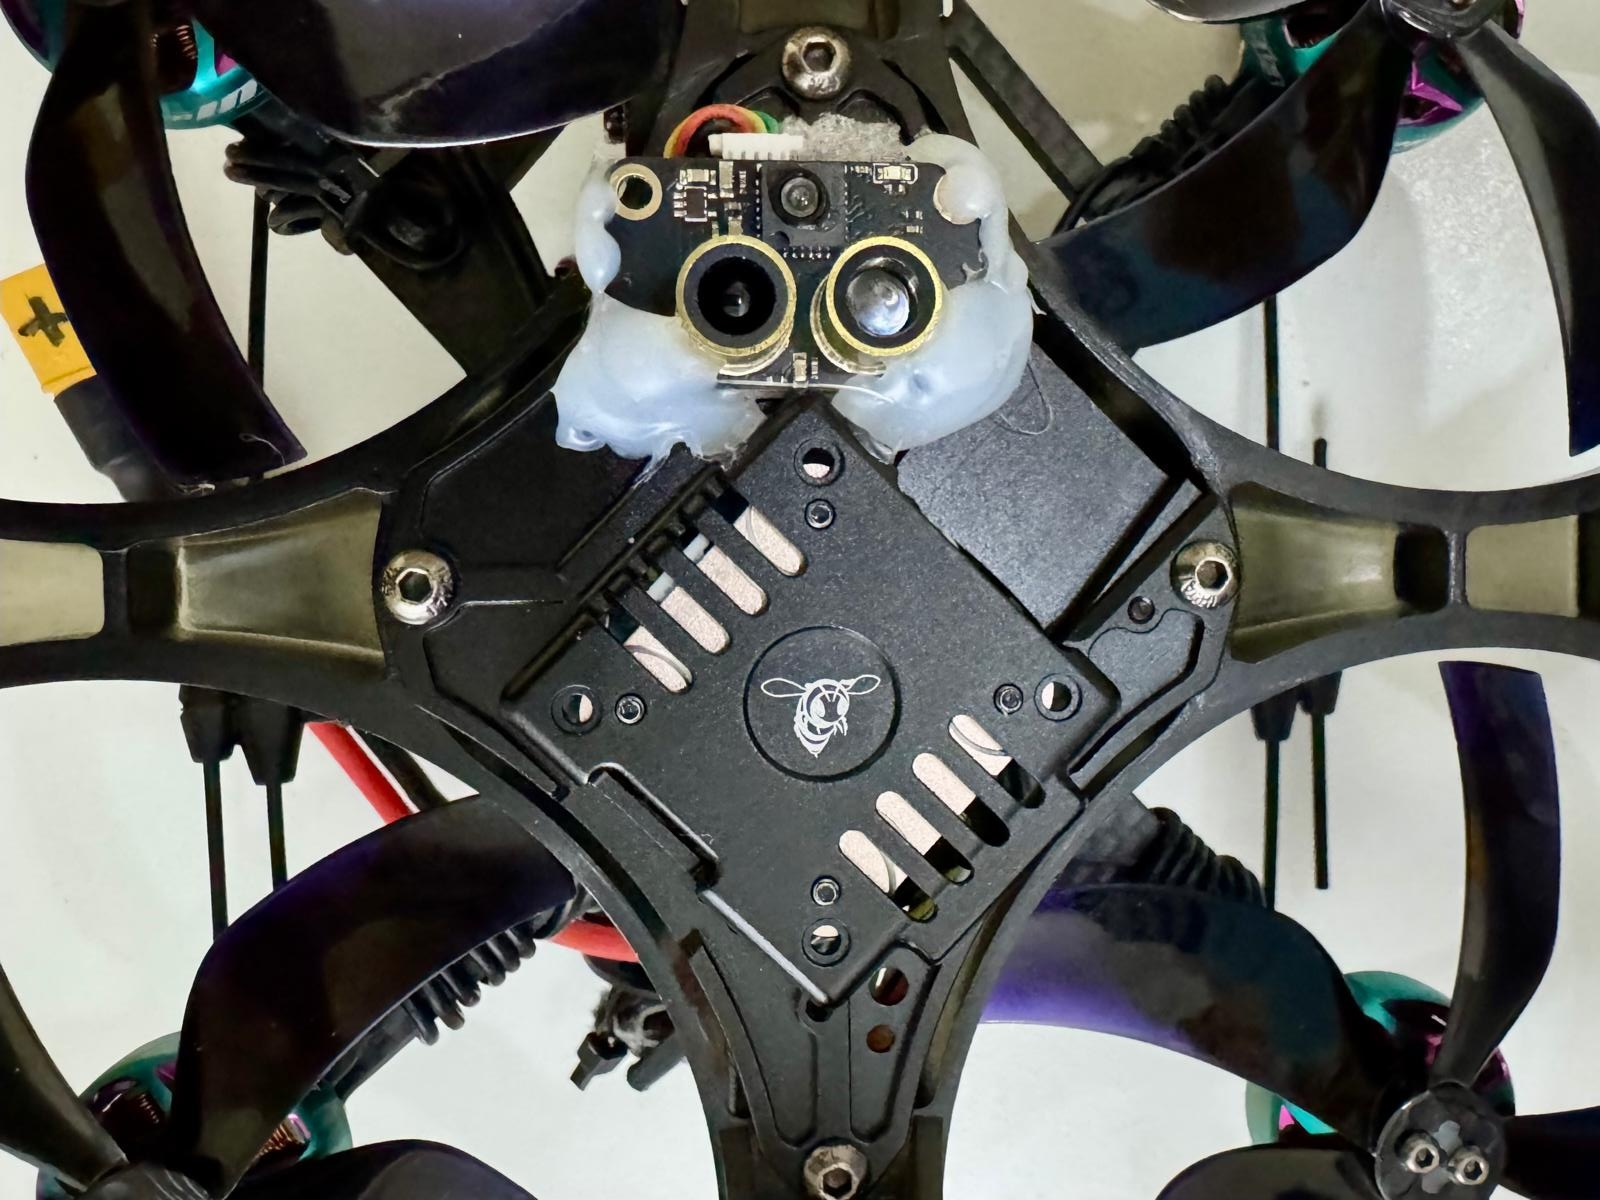
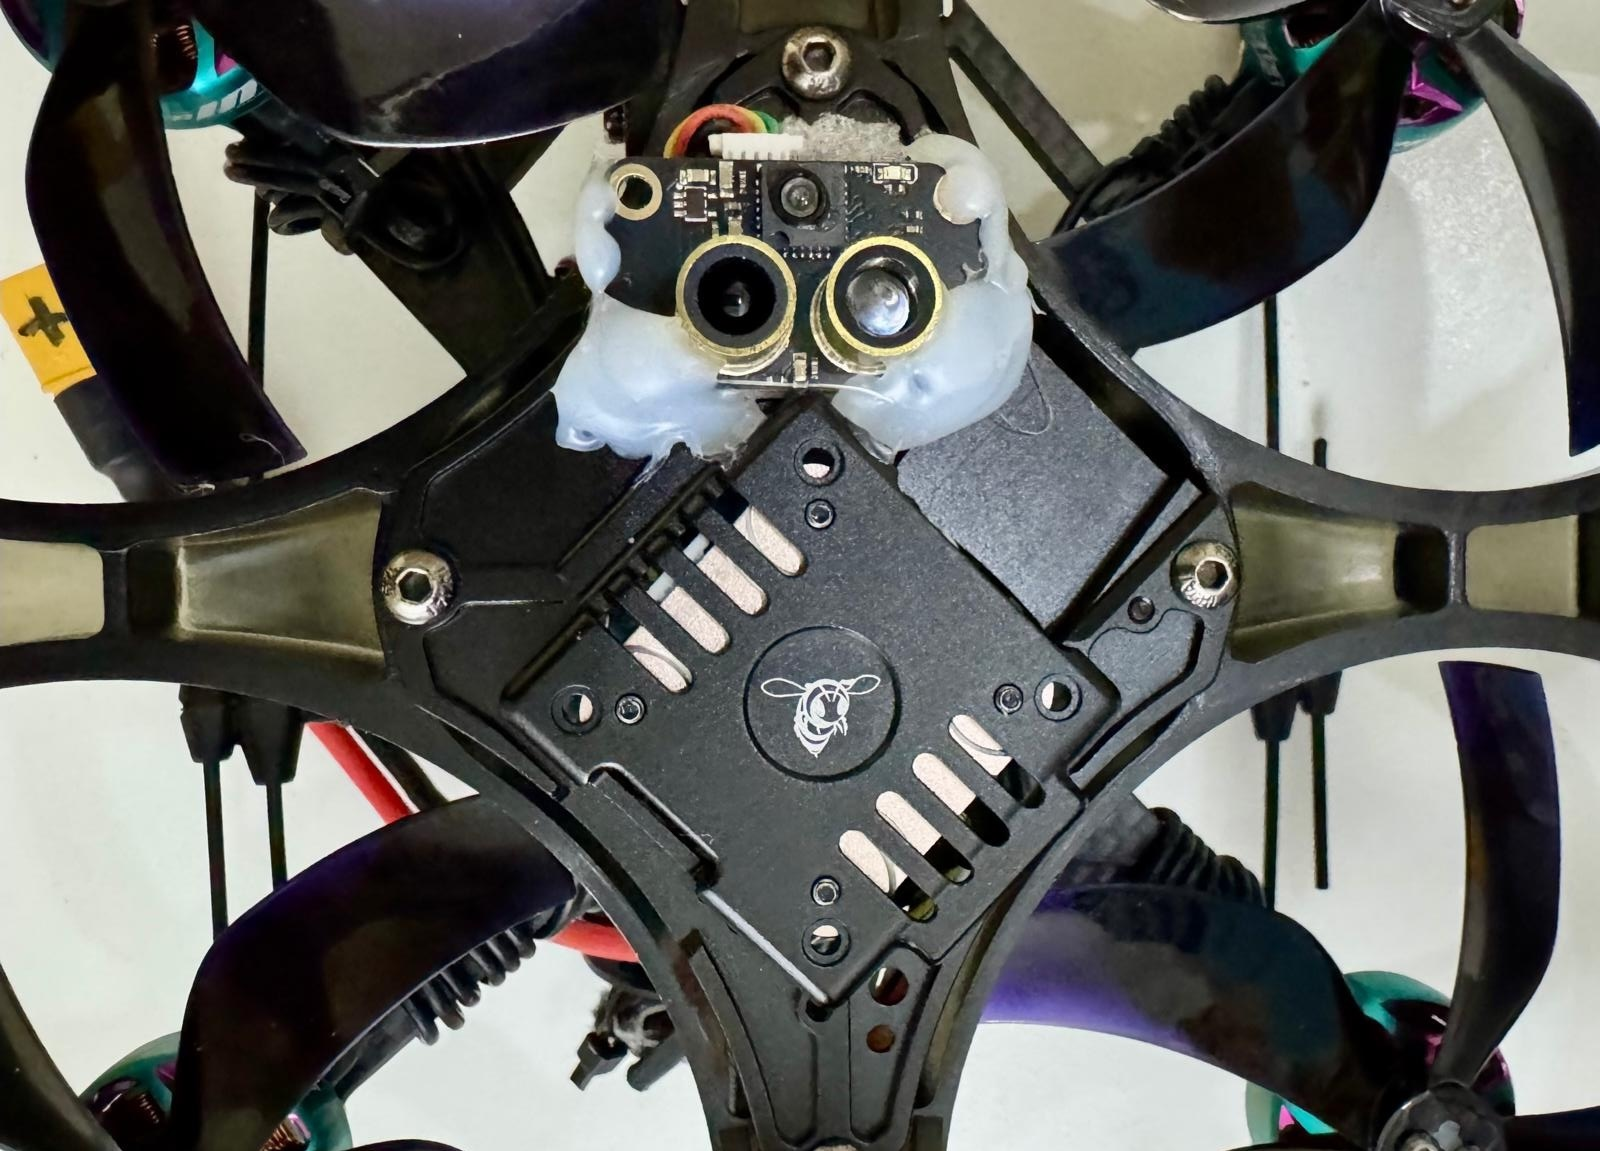
Chapter10(Position Estimation): Ardupilot OF configuration stept A added

diff --git a/chapter10.tex b/chapter10.tex
@@ -189,24 +189,11 @@ TBD
 
 Although ArduPilot supports installing optical flow and rangefinder sensors in different orientations, this section focuses only on the downward-facing configuration, since the installation and configuration procedures for other orientations are similar. It is recommended to mount the sensor close to the center of the drone and ensure that its forward direction is correctly aligned (see Figure~\ref{DroenWithMicoAirMFT01}). If this placement is not possible, the sensor position can be compensated through configuration parameters
 
-\colende
+\colger
 
-% \begin{figure}[htbp]
-%   \centering
-%   \begin{minipage}[t]{0.48\textwidth}
-%     \centering
-%     \includegraphics[width=\linewidth]{MicoAir_Optical_Flow_Lidar_Sensor_MTF_01_in_flying_drone.jpg}
-%     \vspace{0pt} % sorgt für Top-Ausrichtung
-%   \end{minipage}\hfill
-%   \begin{minipage}[t]{0.48\textwidth}
-%     \centering
-%     \includegraphics[width=\linewidth]{MicoAir_Optical_Flow_Lidar_Sensor_MTF_01_in_flying_drone.jpeg}
-%     \vspace{0pt}
-%   \end{minipage}
-%   \caption{Drone installed with MicoAir MTF-01 Optical Flow and Lidar Sensor}
-%   \label{DroenFlyingWithMicoAirMFT01}
-% \end{figure}
-% \FloatBarrier
+TBD
+
+\colende
 
 
 \begin{figure}[htbp]
@@ -226,3 +213,82 @@ Although ArduPilot supports installing optical flow and rangefinder sensors in d
 \end{figure}
 \FloatBarrier
 
+\renewcommand{\deutschertitel}{Konfigurationsschritt: A}
+\renewcommand{\englischertitel}{Configuration Step: A}
+\makrounterunterabschnitt
+
+For the configuration of the optical flow sensor, this guideline uses Mission Planner as the ground control software. After the sensor has been properly installed, the next step is to configure it in the ArduPilot firmware so that the flight controller can read and utilize the optical flow and rangefinder data.
+
+\colger
+
+TBD
+
+\coleng
+
+First, the serial port to which the sensor is connected must be specified in SETUP → Serial Ports (see Figure~\ref{AbbildungBetaflightAppPorts}). In this section, the corresponding SERIALx / UARTx port (where x represents the hardware port number used for the sensor connection) must be configured with the correct baud rate and communication protocol.
+
+\colger
+
+TBD
+
+\coleng
+
+For high-speed sensors such as optical flow modules and GNSS receivers, a baud rate of 115200 is commonly used. However, it is recommended to verify the correct baud rate from the sensor manufacturer’s documentation. Optical flow sensors may use different communication protocols, and some devices—such as the MTF-01—support multiple protocols. Therefore, the sensor protocol should first be configured according to the manufacturer’s instructions. Once the supported protocol is confirmed, the same protocol must be selected for the corresponding serial port in the flight controller configuration.
+
+\colger
+
+TBD
+
+\coleng
+
+For ArduCopter version 4.7 and earlier, sensors that communicate using the MAVLink protocol require additional configuration of the serial port settings. In this case, the Set Bitmask option of the corresponding serial port must be selected. From the dialog window that appears, the “Don’t forward” option should be enabled for that serial port (see Figure~\ref{ImageLevelMissionPlannerMAVnProtocolSelectionCopter4_6}). This setting ensures that MAVLink messages from sources other than the autopilot are not forwarded to the selected serial port.
+
+\colger
+
+TBD
+
+\colende
+
+\begin{figure}[htb!]
+  \centering
+    \includegraphics[width=\linewidth]{Mission_Planneer_1.3.83_MAV_OPTIONScopter4.6_screenshot_1.png}
+  \caption{Configuration Page of Betaflight}
+  \label{ImageLevelMissionPlannerMAVnProtocolSelectionCopter4_6}
+\end{figure}
+\FloatBarrier
+
+\colstart
+
+In ArduCopter firmware versions later than 4.7, the protocol configuration has been decoupled from specific serial ports and moved to the MAVn\_OPTIONS parameter. The correct numbe can be found by the MAV index (n) and the physical serial port identifier. The index "n" represents the specific MAVLink instance assigned to the peripheral device rather than its hardware port number. Consequently, the appropriate value for "n" must be derived from the MAVLink instance mapping of the integrated sensors and their corresponding serial interfaces. Once done save the changes (see Figure~\ref{ImageLevelMissionPlannerMAVnProtocolSelectionCopter4_7}).
+
+\colger
+
+TBD
+
+\colende
+
+\begin{figure}[htb!]
+  \centering
+    \includegraphics[width=\linewidth]{Mission_Planneer_1.3.83_MAV_OPTIONScopter4.7_screenshot_1.png}
+  \caption{Configuration Page of Betaflight}
+  \label{ImageLevelMissionPlannerMAVnProtocolSelectionCopter4_7}
+\end{figure}
+\FloatBarrier
+
+\colstart
+
+Summary step A:
+
+% \begin{enumerate}
+%   \item \textbf{Set SERIALx\_Speed} - From Setup tab → flight mode page
+%   \item \textbf{Set SERIALx\_PROTOCOL} - From Setup tab → flight mode page
+%   \item \textbf{Select Don’t forward from / to option } - From Setup tab → flight mode page for copter verson 4.7 Or Config tab → Full Parameter → List  MAVn\_options for newer versions
+% \end{enumerate}
+
+\begin{enumerate} 
+  \item \textbf{Set SERIALx\_Speed} - From Setup tab → flight mode page.
+  \item \textbf{Set SERIALx\_PROTOCOL} - From Setup tab → flight mode page.
+  \item \textbf{Select Don’t forward from / to option } → From Setup tab → flight mode page for copter verson 4.7 Or Config tab → Full Parameter → List  MAVn\_options for newer versions.
+\end{enumerate} 
+
+\colende
